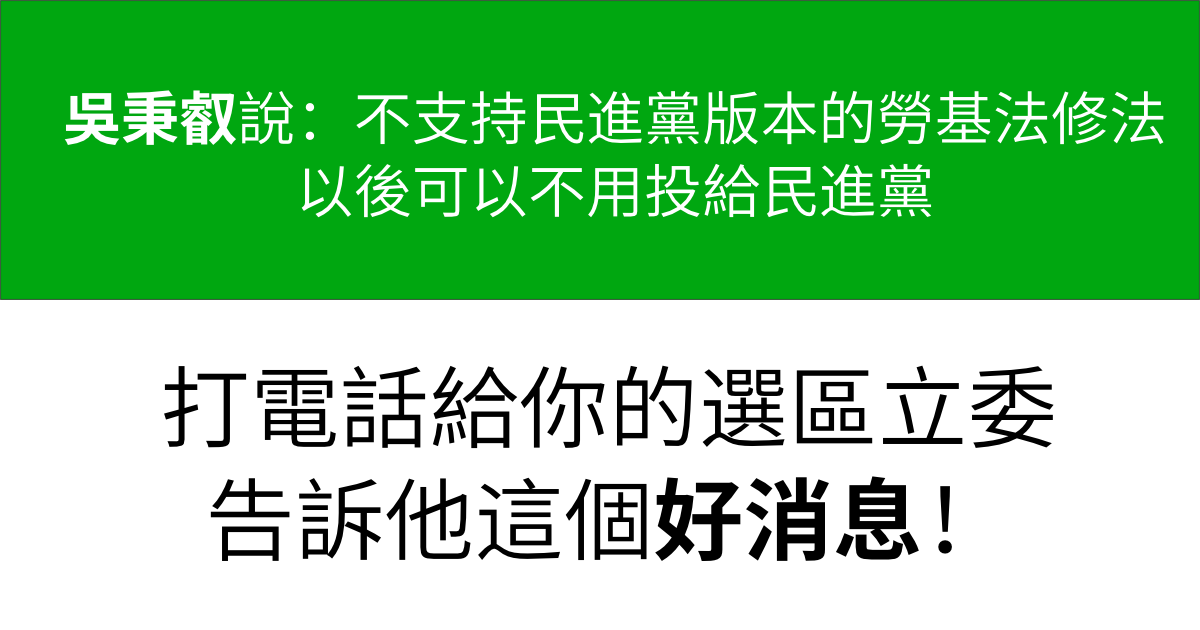
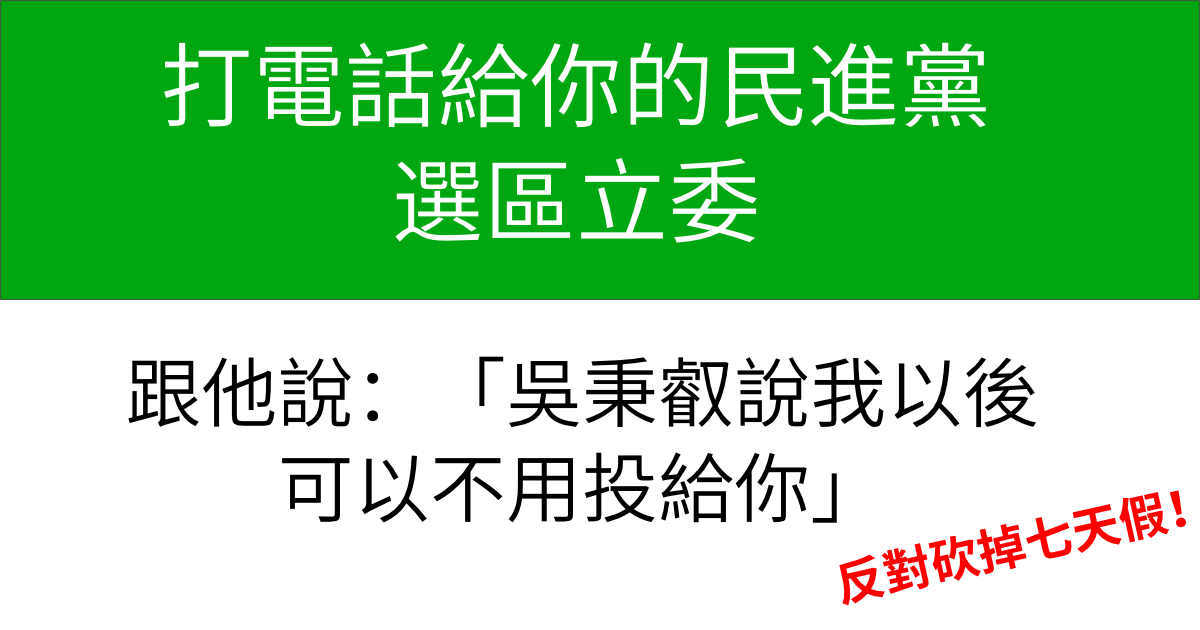
set default district and update fbimage

Changed region(s): [[0.0925, 0.5429, 0.9867, 0.9651], [0.0308, 0.0603, 0.9867, 0.3921]]

diff --git a/src/components/MainSection.vue b/src/components/MainSection.vue
@@ -1,5 +1,5 @@
 <template>
-  <div class="main-section">
+  <div class="main-section container">
     <h1>打電話給立委來表達你對<strong>砍七天假</strong>的不滿！</h1>
     <p>
       民進黨執意要在一例一休法案中，實際偷渡<strong>砍掉七天國定假日</strong>的修法，而吳秉叡更說出：「<strong>反對民進黨版勞基法 將來選舉可不投民進黨</strong>」！既然這樣，大家來打電話給自己選區的立法委員，告訴他們如果不公開<strong>砍掉七天國定假日</strong>的修法，下次立法委員選舉就照吳秉叡委員說的，再也不要支持民進黨了吧！
@@ -62,10 +62,12 @@ export default {
              empty;
     },
     districts() {
-      this.selectedDistrict = '';
-      return this.legislators[this.selectedCity] ?
-             Object.keys(this.legislators[this.selectedCity]) :
-             [];
+      if (this.legislators[this.selectedCity]) {
+        const districts = Object.keys(this.legislators[this.selectedCity]);
+        this.selectedDistrict = districts[0];
+        return districts;
+      }
+      return [];
     },
   },
   data() {
